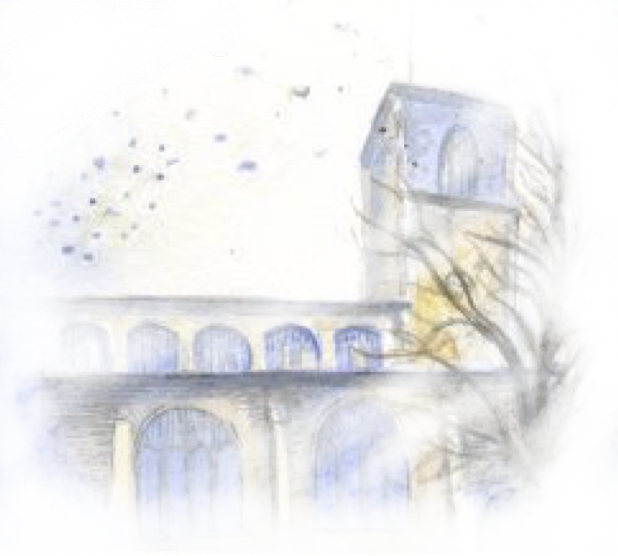
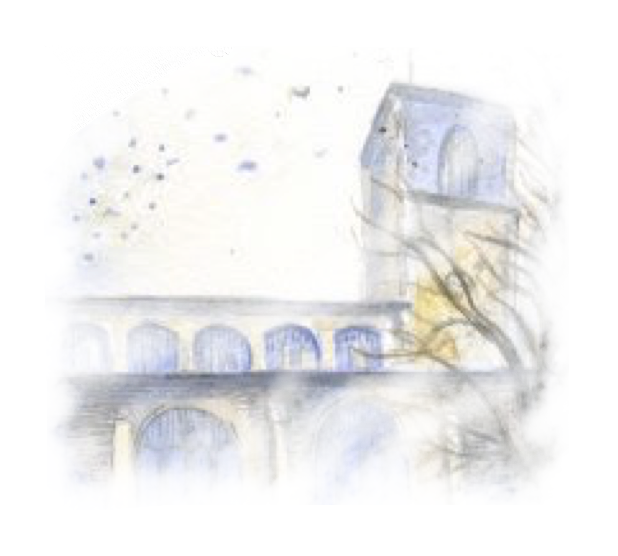
update

diff --git a/CSS/grid/2_Grid_My_Work/churchWebsite3_pancake.html b/CSS/grid/2_Grid_My_Work/churchWebsite3_pancake.html
@@ -22,7 +22,7 @@
       <main class="item" id="display">
         <img src=".\images\thumbnail_PastedGraphic-2.png" class="menu" alt="church painting" id="painting">
       </main>
-      <footer class="item" id="info">Footer</footer>
+      <footer class="item" id="info">St. Andrew's Church, St. Andrew's Street, Norwich, NR2 4AD</footer>
     </div>
   </body>
 </html>

diff --git a/CSS/grid/2_Grid_My_Work/churchWebsite3_pancake.css b/CSS/grid/2_Grid_My_Work/churchWebsite3_pancake.css
@@ -23,6 +23,9 @@
   }
 
   #painting{
+    display: block;
     opacity: 50%;
-    align-content: left;
+    margin-left: auto;
+    margin-right: 10%;
+    width:40%;
   }
